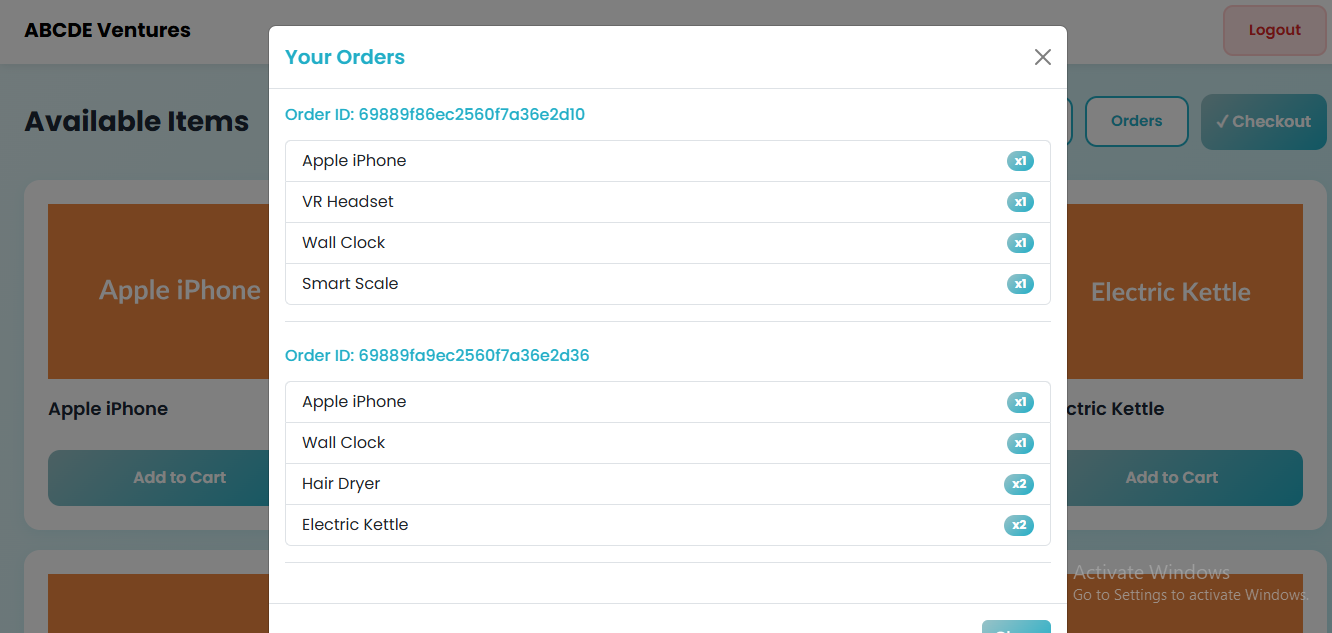
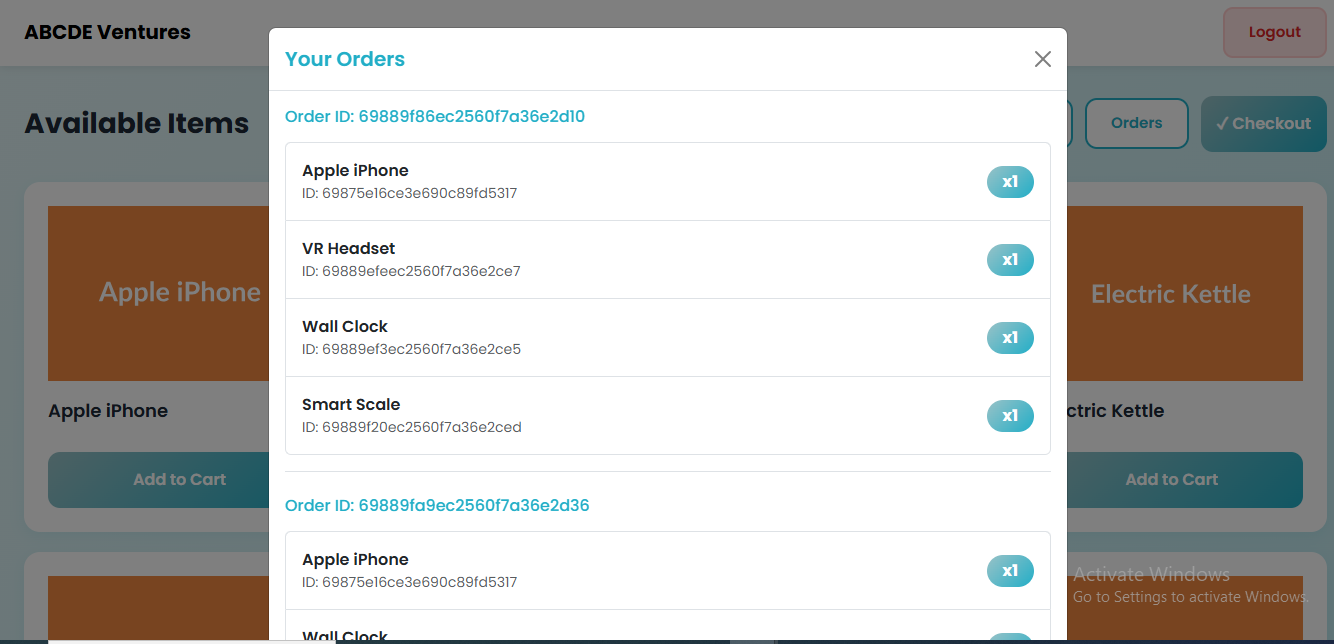
first commit

diff --git a/frontend/src/components/Modal.jsx b/frontend/src/components/Modal.jsx
@@ -40,9 +40,14 @@ const Modal = ({ title, items, onClose }) => {
                       {groupedOrderItems.length > 0 ? (
                         <ul className="list-group">
                           {groupedOrderItems.map(item => (
-                            <li key={item._id} className="list-group-item d-flex justify-content-between align-items-center">
-                              <span>{item.name}</span>
-                              <span className="badge bg-primary rounded-pill">x{item.count}</span>
+                           <li key={item._id} className="list-group-item d-flex justify-content-between align-items-center py-3">
+                            <div className="d-flex flex-column">
+                                <span className="fw-semibold">{item.name}</span>
+                                <small className="text-muted">ID: {item._id}</small>
+                            </div>
+                            <span className="badge bg-primary fs-6 px-3 py-2 rounded-pill">
+                                x{item.count}
+                            </span>
                             </li>
                           ))}
                         </ul>
@@ -60,9 +65,14 @@ const Modal = ({ title, items, onClose }) => {
               ) : (
                 <ul className="list-group">
                   {items.map(item => (
-                    <li key={item._id} className="list-group-item d-flex justify-content-between align-items-center">
-                      <span>{item.name}</span>
-                      <span className="badge bg-primary rounded-pill">x{item.count}</span>
+                     <li key={item._id} className="list-group-item d-flex justify-content-between align-items-center py-3">
+                        <div className="d-flex flex-column">
+                            <span className="fw-semibold">{item.name}</span>
+                            <small className="text-muted">ID: {item._id}</small>
+                        </div>
+                        <span className="badge bg-primary fs-6 px-3 py-2 rounded-pill">
+                            x{item.count}
+                        </span>
                     </li>
                   ))}
                 </ul>
